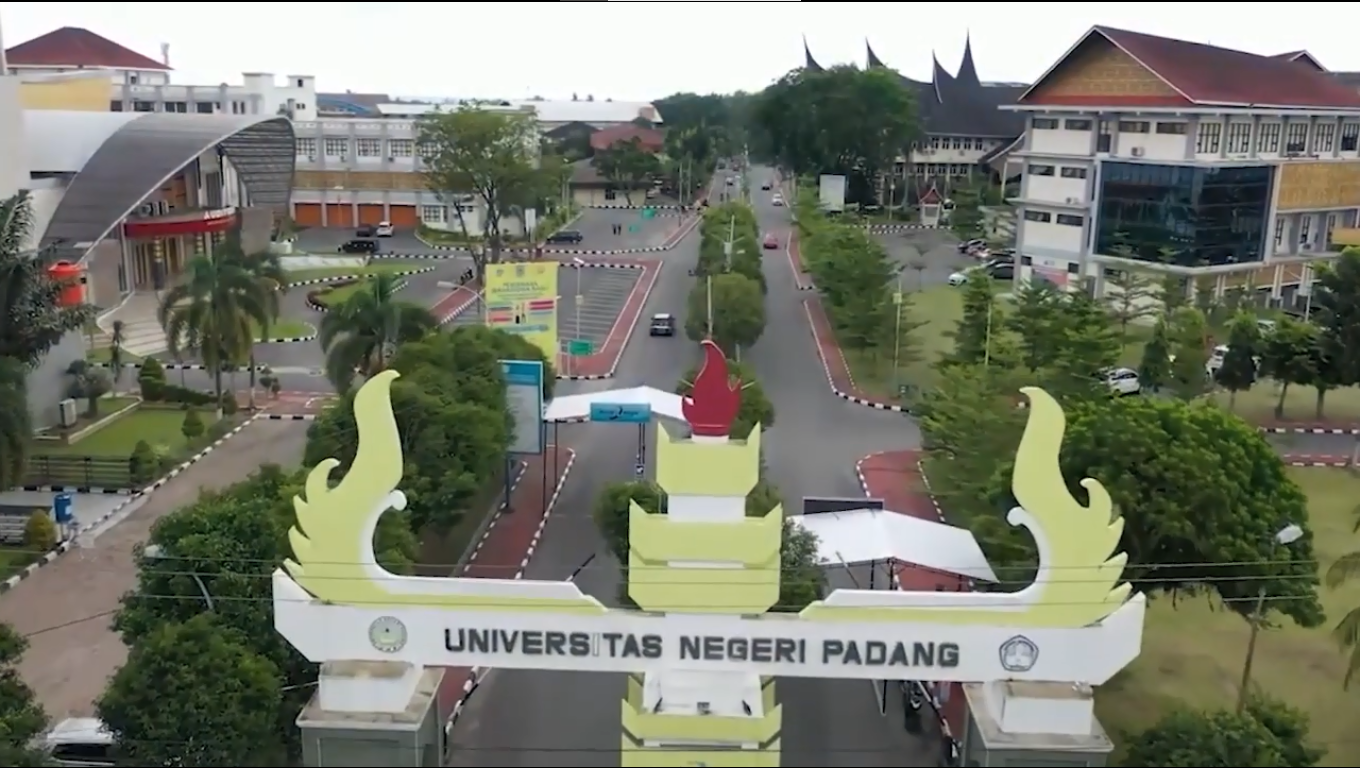
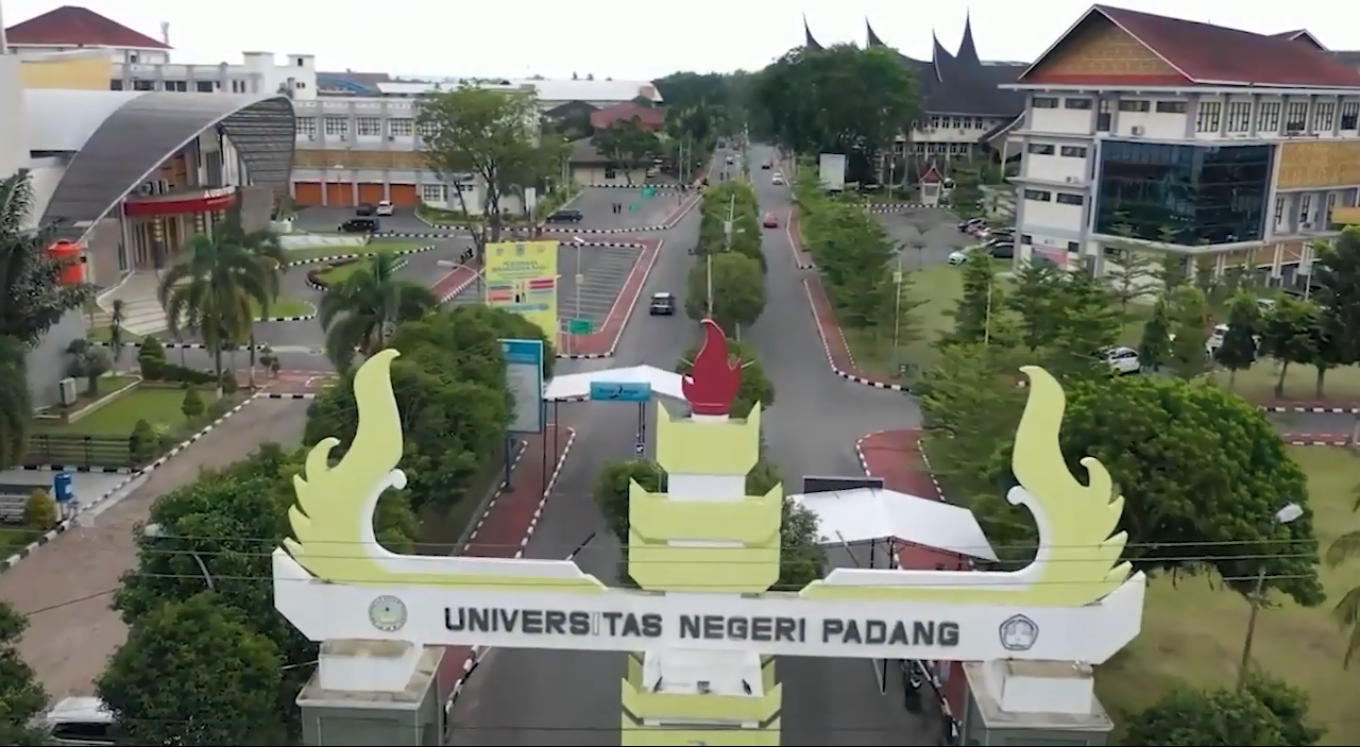
video profile thumbnail

diff --git a/resources/views/front/beranda.blade.php b/resources/views/front/beranda.blade.php
@@ -212,7 +212,7 @@
             </div>
             <div class="row">
                 <div class="col">
-                    <video class="w-100" src="{{ asset('vid/Video Profil Laboratorium Terpadu UNP.mp4') }}" controls></video>
+                    <video class="w-100" src="{{ asset('vid/Video Profil Laboratorium Terpadu UNP.mp4') }}" controls poster="{{ asset('vid/thumbnail_vid.png') }}"></video>
                 </div>
             </div>
     </section>
